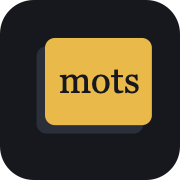
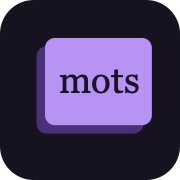
Farbgebung in Violetttönen (hell und dunkel), Symbol angepasst

diff --git a/src/app/style.css b/src/app/style.css
@@ -1,28 +1,30 @@
 :root {
-  --bg: #f6f4ef;
+  --bg: #f5f2fb;
   --surface: #ffffff;
-  --text: #1c1d21;
-  --muted: #6b6f78;
-  --line: #dedbd3;
-  --accent: #b8860b;
-  --again: #c0392b;
-  --hard: #b9770e;
-  --good: #1e8449;
-  --easy: #1f6fb2;
+  --text: #221a33;
+  --muted: #6e6485;
+  --line: #ddd5ee;
+  --accent: #6d3fc0;
+  --on-accent: #ffffff;
+  --again: #b83a6e;
+  --hard: #9a86bd;
+  --good: #6d3fc0;
+  --easy: #4b4fc9;
   color-scheme: light dark;
 }
 @media (prefers-color-scheme: dark) {
   :root {
-    --bg: #16181d;
-    --surface: #1f232b;
-    --text: #eceae4;
-    --muted: #9aa0ab;
-    --line: #2f3440;
-    --accent: #e9b949;
-    --again: #e06c5f;
-    --hard: #e0a24a;
-    --good: #5cbf7f;
-    --easy: #6aa9e0;
+    --bg: #17121f;
+    --surface: #221b2e;
+    --text: #ece6f6;
+    --muted: #a397b8;
+    --line: #362c47;
+    --accent: #b794f4;
+    --on-accent: #1b1328;
+    --again: #e57aa6;
+    --hard: #8f80aa;
+    --good: #b794f4;
+    --easy: #8f9cf5;
   }
 }
 
@@ -53,7 +55,7 @@ button {
   touch-action: manipulation;
 }
 button:disabled { opacity: 0.45; cursor: default; }
-button.primary { background: var(--accent); color: #16181d; border-color: transparent; font-weight: 600; }
+button.primary { background: var(--accent); color: var(--on-accent); border-color: transparent; font-weight: 600; }
 .muted { color: var(--muted); }
 .small { font-size: 14px; }
 

diff --git a/index.html b/index.html
@@ -3,7 +3,7 @@
   <head>
     <meta charset="UTF-8" />
     <meta name="viewport" content="width=device-width, initial-scale=1, viewport-fit=cover" />
-    <meta name="theme-color" content="#16181d" />
+    <meta name="theme-color" content="#17121f" />
     <meta name="apple-mobile-web-app-capable" content="yes" />
     <meta name="apple-mobile-web-app-status-bar-style" content="black-translucent" />
     <meta name="apple-mobile-web-app-title" content="Mes mots" />

diff --git a/vite.config.ts b/vite.config.ts
@@ -19,8 +19,8 @@ export default defineConfig({
         lang: 'de',
         display: 'standalone',
         start_url: '.',
-        background_color: '#16181d',
-        theme_color: '#16181d',
+        background_color: '#17121f',
+        theme_color: '#17121f',
         icons: [
           { src: 'icon-192.png', sizes: '192x192', type: 'image/png' },
           { src: 'icon-512.png', sizes: '512x512', type: 'image/png' },
